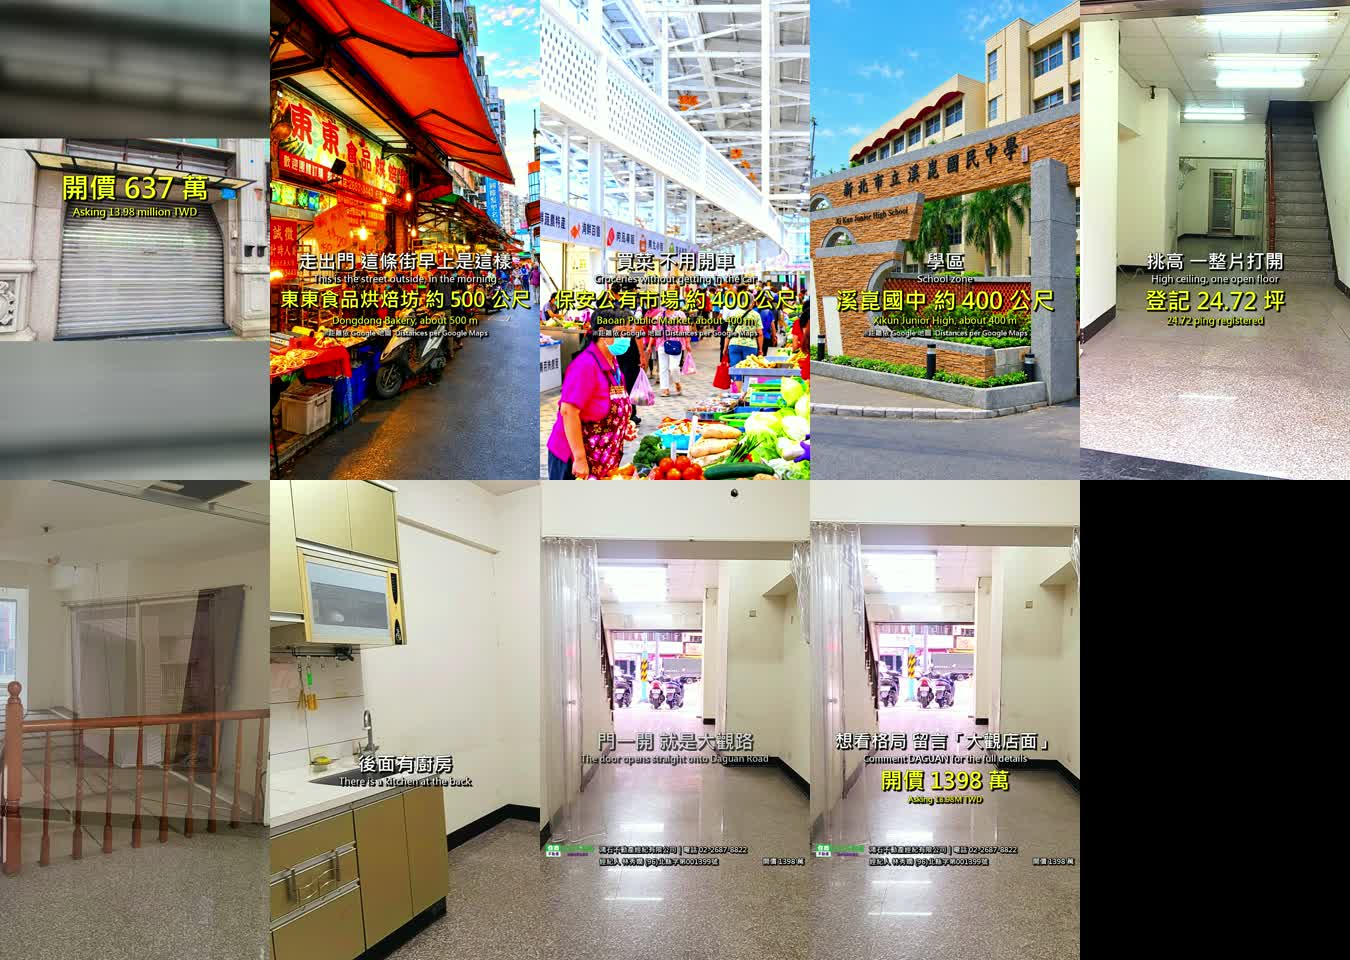
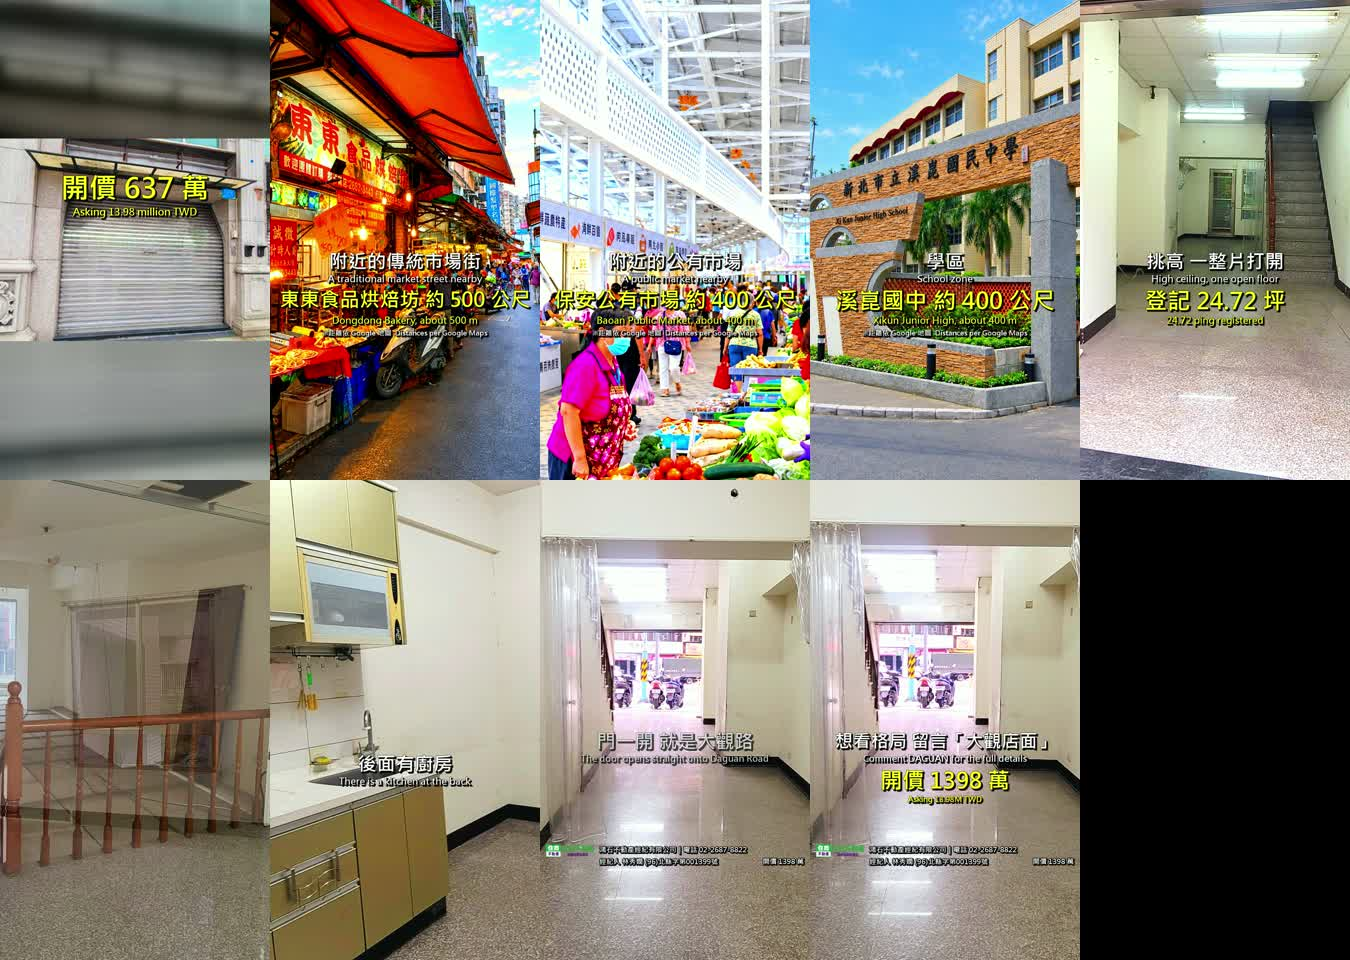
051 點交頁：市場兩鏡用語修正（CAR-0910-04 不要讓人以為是門口）

Changed region(s): [[0.2178, 0.25, 0.4044, 0.3125], [0.4356, 0.25, 0.56, 0.3125]]

diff --git a/051/index.html b/051/index.html
@@ -31,22 +31,23 @@ ul{padding-left:20px}li{margin-bottom:8px;font-size:14.5px}
 </style></head><body>
 
 <h1>051 大觀路金店面　開箱片點交</h1>
-<div class="sub">051-1V 二版＋距離標示｜35.5 秒｜店面三幕｜2026-09-10 出廠｜任務 50-0910-01</div>
+<div class="sub">051-1V 二版＋距離標示＋用語修正｜35.5 秒｜店面三幕｜2026-09-10 出廠｜任務 50-0910-01</div>
 
 <h2>① 影片</h2>
-<a class="dl" href="https://drive.google.com/open?id=1qupH_OmxrcKZrwp8Y3TQjFyAZVaerMuB">下載母帶　53.5 MB</a>
+<a class="dl" href="https://drive.google.com/open?id=1qupH_OmxrcKZrwp8Y3TQjFyAZVaerMuB">下載母帶　53.1 MB</a>
 <a class="dl" style="background:#3a8f5c" href="https://drive.google.com/open?id=1_578kbDgZWzvSeduBDTLQerlNo3VQg_I">手機版　12.1 MB</a>
-<div class="note">1080×1920　30fps　H.264　含音軌　母帶 56,048,828 bytes（本機／雲端／實開三方對過）</div>
+<div class="note">1080×1920　30fps　H.264　含音軌　母帶 55,708,019 bytes（本機／雲端／實開三方對過）</div>
 <img src="a/frames.jpg" alt="抽幀">
 
 <div class="box">
 <b>你退件跟加交代的，這版怎麼改的</b>
 <table class="fix" style="margin-top:8px">
 <tr><td>「第一開場要門面 不是從內拍出去」</td><td>開場換回鐵捲門正面外觀</td></tr>
-<tr><td>「因為是店面 開場店面 第二幕 可以帶入市場相片 第三幕 再從內部介紹」</td><td>改三幕：<b>門面</b>（1 鏡）→ <b>這條街</b>（市場街／市場／校門）→ <b>裡面</b>（4 鏡）→ 收尾街景</td></tr>
+<tr><td>「因為是店面 開場店面 第二幕 可以帶入市場相片 第三幕 再從內部介紹」</td><td>改三幕：<b>門面</b>（1 鏡）→ <b>周邊生活圈</b>（市場街／市場／校門）→ <b>裡面</b>（4 鏡）→ 收尾街景</td></tr>
 <tr><td>「相同的場景不用出現兩次」</td><td>抽出兩組同場景拿掉：挑高廣角 × 走道往樓梯、夾層俯瞰 × 夾層另一角。<b>11 鏡 → 9 鏡</b></td></tr>
 <tr><td>「最後的畫面可停留在街景生活感」</td><td>收尾停在店門口往街上：騎樓、機車、對街店招</td></tr>
 <tr><td>「把那市場生活感的距離標示上去」</td><td>第二幕三鏡都加上距離，畫面下方小字標「※距離依 Google 地圖」：<br><b>東東食品烘焙坊 約 500 公尺</b>／<b>保安公有市場 約 400 公尺</b>／<b>溪崑國中 約 400 公尺</b></td></tr>
+<tr><td>「不要讓人以為是門口　變廣告不實」</td><td>市場街、市場兩鏡的白字改成<b>「附近的傳統市場街」「附近的公有市場」</b>，距離與出處照留。原本那兩句會讓人以為一出門就是市場。錯在我把「第二幕帶入市場相片」理解成「這條街上的人潮」，已開缺失單 <a style="color:#8cc4ff" href="https://app.notion.com/p/3d72111f179d81b3b648e3cfd60e7aca">CAR-0910-04</a></td></tr>
 </table>
 <div style="font-size:13px;color:#9aa3b2;margin-top:10px">留著的一組邊界：挑高廣角跟收尾往門口是同一條走道的兩頭，一個看樓梯、一個看街。你覺得算重複一個字我就拿掉。</div>
 </div>
@@ -94,7 +95,7 @@ ul{padding-left:20px}li{margin-bottom:8px;font-size:14.5px}
 <tr><td>靜滯偵測</td><td>🟢 PASS　排除轉場窗後無靜滯</td></tr>
 <tr><td>字卡寬度</td><td>🟢 距離字卡先量字寬再上片，全部在畫面內</td></tr>
 <tr><td>重複場景</td><td>🟢 標名抽幀逐對人眼看過</td></tr>
-<tr><td>四軸實測</td><td>亮度 142.8／亮度 std 24.08／極差 75.8／飽和度 15.1</td></tr>
+<tr><td>四軸實測</td><td>亮度 142.8／亮度 std 24.07／極差 75.9／飽和度 15.1</td></tr>
 </table>
 
 <div class="box warn">
